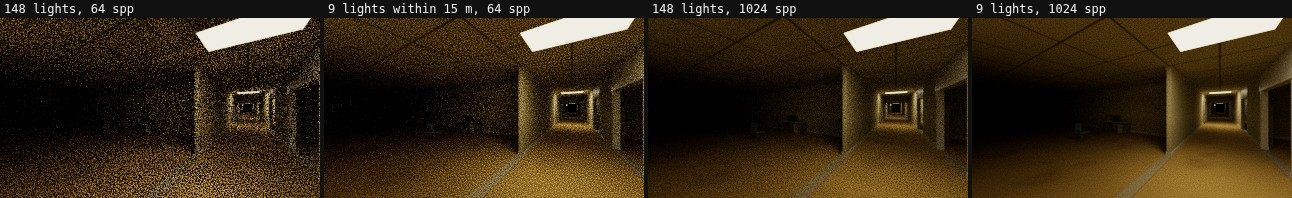
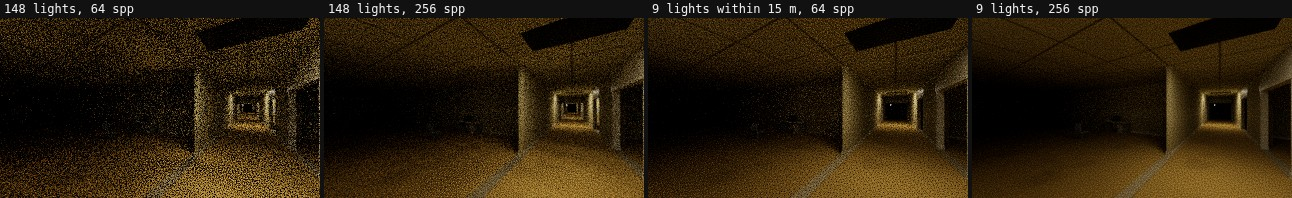
docs(pathracer): corrected E3 images and 320x180 confirmation
Claude-Session: https://claude.ai/code/session_016fPonouqto5UwJPbMh9cSU

diff --git a/docs/pathracer/07-experiments.md b/docs/pathracer/07-experiments.md
@@ -17,7 +17,7 @@ can be reproduced.
 | --- | --- | --- |
 | E1 | Does the library install cleanly next to three r185, and what does it cost to ship? | Yes. `WebGLPathTracer` is about 61 kB gzip and three-mesh-bvh about 16 kB (three external). Two deprecation warnings on r185. |
 | E2 | Would the tracer's blue noise reduce the engine's screen-space noise? | **No** under the engine's 5×5 resolve. **Yes** for pattern structure: spectral peaks fall 55× vs IGN. |
-| E3 | Can real Yellow Rooms chunks be path traced, and at what cost? | Yes, headless and without a GPU. 3×3 chunks give 92k triangles and 148 lights. The tracer is energy-consistent, but uniform light choice makes 148 panels about 2× noisier and 45% slower per sample than 9 culled ones; light culling is essential. |
+| E3 | Can real Yellow Rooms chunks be path traced, and at what cost? | Yes, headless and without a GPU. 3×3 chunks give 92k triangles and 148 lights. The tracer is energy-consistent, but uniform light choice makes 148 panels about 2× noisier and 40–45% slower per sample than 9 culled ones; light culling is essential. |
 | E4 | How accurate is the shipped cell-graph GI against Monte Carlo ground truth? | Up-facing bounce is 66–73% too dark; floor radiosity is sampled at mid-height. A same-cost fix cuts held-out error by 53–57% across office, hotel and sewer. |
 
 ---
@@ -154,7 +154,8 @@ with `EXT_color_buffer_float` present, `MAX_TEXTURE_SIZE` 8192,
 *Office, seed `review`, 3×3 chunks around spawn, 320×180, 4 bounces,
 148 rect lights. This is the game's own generated geometry and palette
 textures, path traced. It is uncalibrated: panel power is a guess and the
-grade is three's ACES, not the engine's look.*
+grade is three's ACES, not the engine's look. Panel faces render dark
+because the tracer never shows area lights to camera rays.*
 
 ### Scene cost
 
@@ -189,6 +190,10 @@ How to read the table:
 - **Time per sample.** Measured *between synchronising readbacks*.
   `gl.finish()` does not block in Chrome, so per-call timings would only
   measure command submission.
+- **Repeated at 320×180** (256 spp, same view) for the images below, with
+  the same ratios:
+  - all 148: mean 0.0401, σ ≈ 7.6, **1.91 s/sample**;
+  - near 9: mean 0.0370, σ ≈ 3.5, **1.36 s/sample**.
 
 ### Reading
 
@@ -204,7 +209,7 @@ How to read the table:
    light selection plus an O(lights) forward-hit loop
    ([02 §5](02-webgl-backend.md#5-lights-next-event-estimation-and-mis))
    mean that 148 panels have about 2.1× the per-sample noise of the 9 nearby
-   ones and cost about 45% more per sample.
+   ones and cost 40–45% more per sample.
    - To reach 5% per-pixel error, all 148 lights would need about 24,000
      spp, and the 9 near lights about 5,500 spp.
    - Culling to 15 m therefore gets there about 6× faster, at the price of
@@ -216,9 +221,9 @@ How to read the table:
    neighbourhood goes from a few dozen instanced draws to 92k flattened
    triangles. The WebGPU backend's two-level BVH removes this step
    ([03 §2](03-webgpu-backend.md#2-bvh-and-scene-data)).
-5. **SwiftShader numbers are CPU numbers.** 160×90 is about 14k pixels.
-   About 0.45 s per sample there means roughly 1.8 s per sample at 320×180
-   on this CPU. A desktop GPU should be one to two orders of magnitude faster
+5. **SwiftShader numbers are CPU numbers.** 0.45 s per sample at 160×90
+   became 1.91 s at 320×180 on this CPU, close to linear in pixels. A desktop
+   GPU should be one to two orders of magnitude faster
    (an estimate; no GPU was available to measure it). The headless route is
    viable for batch or CI-style evidence, not as a player-facing cost.
 

diff --git a/docs/pathracer/README.md b/docs/pathracer/README.md
@@ -35,17 +35,18 @@ techniques.**
 
 ## Key measured findings
 
-![A real Yellow Rooms office neighbourhood path traced with three-gpu-pathtracer at 16, 64, 256 and 1024 spp](img/e3-office-convergence.jpg)
+![A real Yellow Rooms office neighbourhood path traced with three-gpu-pathtracer at 16, 64 and 256 spp](img/e3-office-convergence.jpg)
 
 *The game's own generated office chunks (seed `review`), path traced
 headlessly by `WebGLPathTracer` 0.0.24 ([E3](07-experiments.md#3-e3--path-tracing-real-yellow-rooms-chunks)).
-Uncalibrated: this shows feasibility and noise, not the engine's look.*
+Uncalibrated: this shows feasibility and noise, not the engine's look.
+Panel faces are dark because area lights are invisible to camera rays.*
 
 | # | Finding | Evidence |
 | --- | --- | --- |
 | 1 | The WebGL tracer installs cleanly next to three 0.185.0. It costs **61 kB gzip**, plus 16 kB for three-mesh-bvh. It warns about two r185 deprecations. | [E1](07-experiments.md#1-e1--packaging-compatibility-and-bundle-cost) |
 | 2 | Blue noise does **not** lower noise after the engine's 5×5 resolve: 4×4 interleaved 0.0179 vs blue noise 0.0196 RMS. It does remove structure: spectral peak/mean is **157 vs 8,702 for IGN**. Use it only where noise is unfiltered. | [E2](07-experiments.md#2-e2--blue-noise-versus-the-engines-screen-noise) |
-| 3 | Real office chunks, built by the game's own generator and mesher, path trace headlessly with **no GPU** (SwiftShader). A 3×3 neighbourhood expands to **92k triangles and 148 panel lights**. The tracer is energy-consistent: near + far lights add up within 0.3%. Because it picks lights uniformly, 148 panels are **about 2× noisier and 45% slower per sample** than the 9 nearby ones. Light culling (and ideally a denoiser) is a prerequisite for a useful reference view. | [E3](07-experiments.md#3-e3--path-tracing-real-yellow-rooms-chunks) |
+| 3 | Real office chunks, built by the game's own generator and mesher, path trace headlessly with **no GPU** (SwiftShader). A 3×3 neighbourhood expands to **92k triangles and 148 panel lights**. The tracer is energy-consistent: near + far lights add up within 0.3%. Because it picks lights uniformly, 148 panels are **about 2× noisier and 40–45% slower per sample** than the 9 nearby ones. Light culling (and ideally a denoiser) is a prerequisite for a useful reference view. | [E3](07-experiments.md#3-e3--path-tracing-real-yellow-rooms-chunks) |
 | 4 | The shipped cell-graph GI is **single-bounce by construction**. Its ceiling term is identically 0, so **up-facing indirect light is 66–73% too dark** in office, hotel and sewer. The floor's radiosity is sampled at mid-height instead of on the floor, which inflates it up to about 3.8× under fixtures. More Jacobi iterations change nothing (< 1%). Sampling the floor on the floor, adding a floor→ceiling bounce term and refitting the weights (same cost) **cuts per-cell error by 53–57%** on held-out datasets, for example office relative RMSE 1.31 → 0.58. | [E4](07-experiments.md#4-e4--monte-carlo-reference-for-the-cell-graph-gi) |
 
 ## Recommendations, ranked
